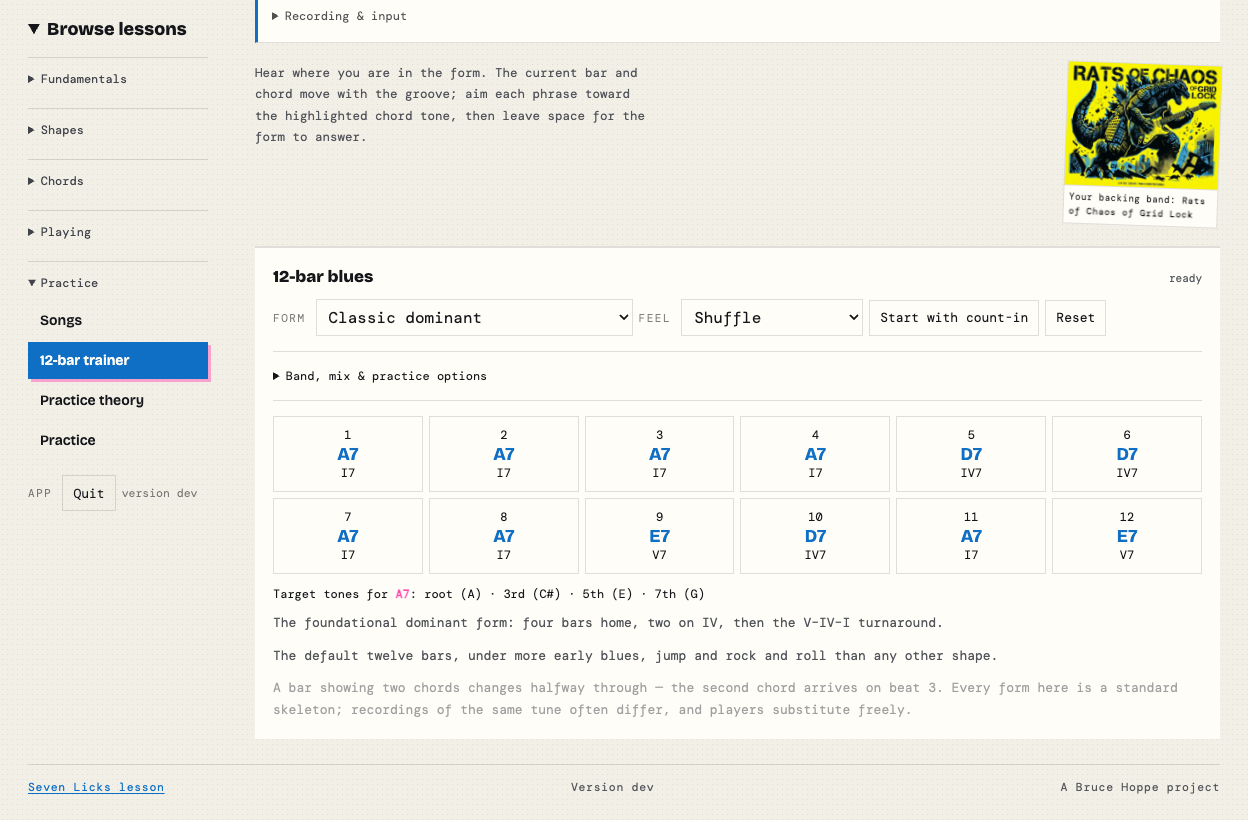
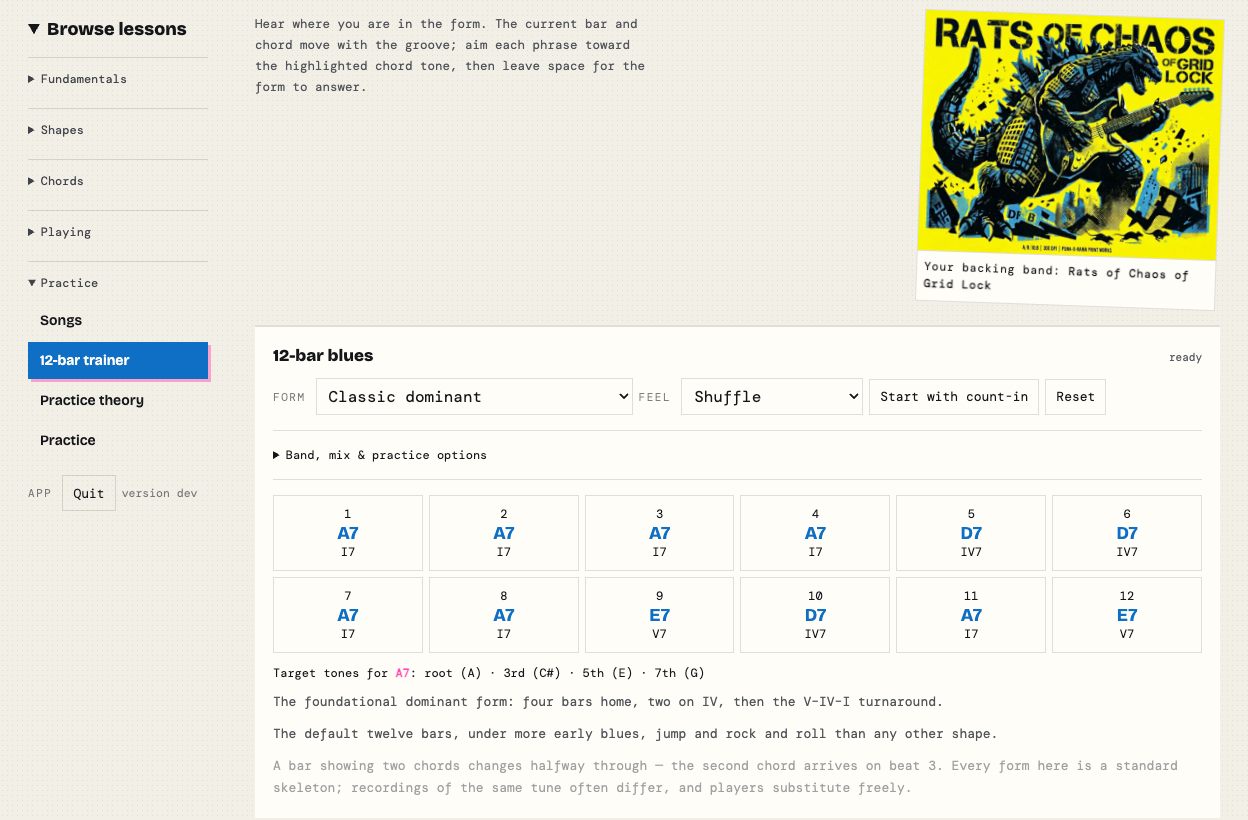
Make the two kaiju graphics bigger
Masthead guitarist 182 to 320 px, trainer poster 155 to 300 px with a larger
caption; 150 and 165 px on phones. Every view still fits at 1280, 375 and 320 px.

diff --git a/web/app.css b/web/app.css
@@ -403,7 +403,7 @@ body{padding:0 28px 24px;background-image:radial-gradient(#15161a14 .45px,transp
 .masthead{display:flex;align-items:center;justify-content:space-between;gap:24px;padding:26px 0 25px;border-bottom:2px solid var(--ink);margin-bottom:30px}
 .masthead h1{font-size:clamp(27px,4.2vw,47px);line-height:.96;letter-spacing:-.035em;text-shadow:1.5px 1.5px var(--pink)}
 .masthead .sub{font-size:11px;letter-spacing:.045em;text-transform:none;opacity:1;color:#525459;margin:12px 0 0}
-.masthead .hero{width:182px;margin:0;flex-shrink:0;max-width:25%;border:0;transform:rotate(-3deg);box-shadow:4px 4px 0 #ff48b02c}
+.masthead .hero{width:320px;margin:0;flex-shrink:0;max-width:38%;border:0;transform:rotate(-3deg);box-shadow:4px 4px 0 #ff48b02c}
 .desk-layout{display:grid;grid-template-columns:185px minmax(0,1fr);gap:42px;align-items:start}
 .lesson-index{position:sticky;top:18px}
 .browse>summary{font-family:'Bricolage Grotesque',sans-serif;font-size:18px;font-weight:800;margin-bottom:17px;cursor:pointer}
@@ -452,17 +452,17 @@ button:focus-visible,summary:focus-visible,select:focus-visible,a:focus-visible{
 .credit{margin-top:25px;padding:15px 0;opacity:1;color:#56585d}
 @media(min-width:1100px){#boxes{grid-template-columns:repeat(2,minmax(0,1fr))}}
 @media(max-width:740px){
- body{padding:0 16px 15px}.masthead{padding:22px 0;margin-bottom:20px;gap:12px}.masthead .hero{width:100px;max-width:27%}.masthead h1{font-size:29px}.masthead .sub{font-size:10px;max-width:23ch;line-height:1.5}
+ body{padding:0 16px 15px}.masthead{padding:22px 0;margin-bottom:20px;gap:12px}.masthead .hero{width:150px;max-width:38%}.masthead h1{font-size:29px}.masthead .sub{font-size:10px;max-width:23ch;line-height:1.5}
  .desk-layout{display:block}.lesson-index{position:static;border-bottom:1px solid var(--rule);margin-bottom:24px}.browse>summary{font-size:15px;margin-bottom:14px}.lesson-title{font-size:25px}.lesson-context{align-items:center}.key-select{font-size:12px}.key-select select{max-width:116px;margin-left:0}.grid,.grid.wide{grid-template-columns:minmax(0,1fr)}.practice-audio{padding:10px;margin:0 0 20px}.practice-audio #play>.lbl{flex-basis:100%}.legend{gap:10px}.card h2 em{font-size:10px}.map{overflow-x:auto}.map svg{min-width:570px}#path>.card{padding:16px}
 }
 .trainer-options{border-block:1px solid var(--rule);padding:10px 0;margin:15px 0}
 .trainer-options>summary{cursor:pointer;font-size:12px;padding:6px 0}
 .trainer-options[open]>summary{margin-bottom:14px}
-#v-trainer .hero{max-width:155px;float:right;margin:0 0 20px 25px;transform:rotate(2deg)}
-#v-trainer .hero figcaption{font-size:9px;line-height:1.5;padding:5px}
+#v-trainer .hero{max-width:300px;float:right;margin:0 0 20px 25px;transform:rotate(2deg)}
+#v-trainer .hero figcaption{font-size:11.5px;line-height:1.5;padding:7px}
 #v-trainer>.tip{min-height:145px;max-width:53ch!important}
 #v-trainer>.card{clear:both}
-@media(max-width:740px){#v-trainer .hero{max-width:105px;margin-left:14px}#v-trainer>.tip{min-height:110px}}
+@media(max-width:740px){#v-trainer .hero{max-width:165px;margin-left:14px}#v-trainer>.tip{min-height:190px}}
 #settingssummary{font-size:11px;color:var(--blue);margin-left:8px}
 .skip-link{position:absolute;top:0;left:16px;transform:translateY(-120%);z-index:10;background:var(--card);padding:12px;color:var(--blue)}
 .skip-link:focus{transform:none}

diff --git a/CHANGELOG.md b/CHANGELOG.md
@@ -5,6 +5,10 @@ a second release on the same day.
 
 ## Unreleased
 
+- The two kaiju graphics are bigger so they no longer get lost: the masthead
+  guitarist is 320 px wide (was 182) and the Rats of Chaos poster on the 12-bar
+  trainer 300 px (was 155), with a larger caption; on phones 150 and 165 px. Both
+  images were already large enough to stay sharp.
 - The **Key** (or **Root**) label beside the key menu is larger, bold blue capitals
   with a pink underline, and the menu has a blue border, so it can't be missed:
   the key decides what every diagram shows.
